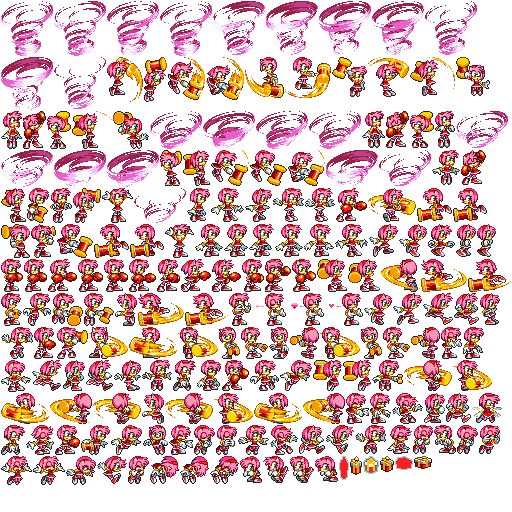
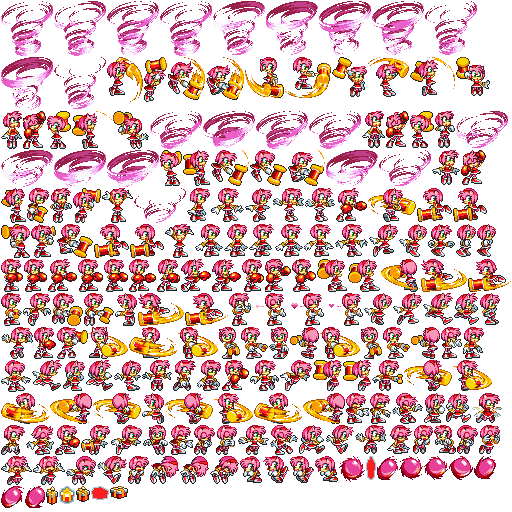
Adventure 2: Sonic's Spin Dash for everyone but Rouge, in their colours
Only Sonic's sheet has a Spin Dash, so the packer lends his (Sonic Wave's
spin in place, Sonic Meteor's ball) to Tails, Knuckles, Amy and Shadow,
swapping his four blues for their own main colour from each sheet's palette
strip. Amy gains the move; the others rev and roll as their coloured ball.
Rouge has none: Down + Space does nothing for her (a plank still drops).

Changed region(s): [[0.6562, 0.875, 0.9688, 0.9375], [0.0, 0.9375, 0.25, 1.0]]

diff --git a/race/adventure-sprites.js b/race/adventure-sprites.js
@@ -36,37 +36,39 @@
       "fx.airshot": [[53,64,50,50,25.0],[350,64,47,47,23.5],[104,64,49,49,24.5],[1,64,51,51,25.5],[154,64,47,49,23.5],[1,116,46,46,23.0],[398,64,47,47,23.5],[258,64,52,48,26.0],[311,64,38,48,19.0]],
       "fx.ring": [[452,440,15,15,7.5],[468,440,14,15,7.0],[483,440,14,15,7.0],[1,469,14,15,7.0],[48,469,15,13,7.5]],
       "fx.trap": [[64,469,15,13,7.5],[80,469,16,13,8.0],[16,469,16,15,8.0],[33,469,14,15,7.0]],
+      "spin": [[59,440,26,26,12.9],[148,440,24,24,12.0],[173,440,24,24,12.1],[198,440,24,24,12.0]],
     } },
     tails: { url: "assets/guests/sb-tails.png", w: 512, h: 1024, f: {
       "idle": [[410,230,38,32,27.6],[435,330,38,31,27.5],[342,127,36,33,26.6],[1,127,38,34,26.1],[449,230,37,32,26.6],[474,330,37,31,26.5],[379,127,35,33,25.6],[40,127,39,34,27.1]],
       "dash": [[1,363,39,31,25.2],[1,264,42,32,22.6],[415,127,37,33,20.5],[41,363,34,31,19.5],[76,363,38,31,20.7]],
       "start": [[44,264,39,32,29.2]],
-      "run": [[84,264,40,32,29.8],[115,363,39,31,27.3],[125,264,38,32,29.9],[58,459,40,30,28.8],[164,264,41,32,29.1],[99,459,39,30,28.8],[206,264,38,32,29.9],[139,459,39,30,27.8]],
-      "skid": [[453,127,35,33,23.9],[155,363,43,31,11.4],[179,459,39,30,18.9],[245,264,37,32,26.8]],
-      "jump": [[94,1,17,45,8.7],[112,1,20,45,10.7],[356,1,24,40,15.9],[223,50,30,36,20.0],[219,459,34,30,23.6]],
+      "run": [[84,264,40,32,29.8],[115,363,39,31,27.3],[125,264,38,32,29.9],[1,459,40,30,28.8],[164,264,41,32,29.1],[42,459,39,30,28.8],[206,264,38,32,29.9],[82,459,39,30,27.8]],
+      "skid": [[453,127,35,33,23.9],[155,363,43,31,11.4],[122,459,39,30,18.9],[245,264,37,32,26.8]],
+      "jump": [[94,1,17,45,8.7],[112,1,20,45,10.7],[356,1,24,40,15.9],[223,50,30,36,20.0],[162,459,34,30,23.6]],
       "fall": [[1,162,36,33,22.7],[38,162,31,33,13.9],[79,50,28,38,11.2],[154,50,31,37,14.2]],
-      "land": [[283,264,31,32,12.3],[285,491,37,24,22.9],[191,491,34,28,24.0]],
-      "fly": [[199,363,41,31,26.4],[108,50,45,38,30.1],[65,90,40,35,21.0],[315,264,38,32,16.1],[70,162,39,33,22.2],[254,459,39,30,23.0]],
-      "roll": [[241,363,46,31,16.8],[288,363,40,31,11.0],[110,162,40,33,15.4]],
-      "atk1": [[329,363,35,31,24.6],[151,162,34,33,24.6],[365,363,46,31,24.8],[412,363,45,31,29.4],[458,363,38,31,29.0],[354,264,39,32,29.0]],
-      "atk2": [[1,395,35,31,20.6],[37,395,24,31,14.0],[294,459,37,30,18.6],[332,459,34,30,16.5],[62,395,36,31,14.1],[99,395,34,31,11.9],[134,395,29,31,14.5],[164,395,29,31,18.5]],
-      "atk3": [[367,459,33,30,11.0],[194,395,27,31,11.9],[401,459,27,30,13.2],[80,127,37,34,14.2],[394,264,39,32,17.4],[222,395,36,31,23.1],[259,395,38,31,29.0],[434,264,39,32,29.0]],
-      "heavy": [[186,162,43,33,29.9],[230,162,43,33,28.8],[274,162,43,33,26.8],[318,162,43,33,26.1],[362,162,43,33,26.9],[406,162,43,33,27.8],[1,297,43,32,25.2],[429,459,44,30,22.7],[1,491,48,30,22.4],[45,297,40,32,20.9],[118,127,46,34,20.4],[106,90,47,35,20.0],[154,90,46,35,20.3],[201,90,45,35,20.6]],
-      "upper": [[298,395,42,31,20.0],[86,297,44,32,17.7],[247,90,42,35,13.1],[254,50,46,36,22.8],[200,1,45,44,31.6],[1,1,47,48,35.1],[133,1,46,45,33.0],[49,1,44,47,33.3],[246,1,42,44,29.6],[301,50,44,36,23.4],[165,127,44,34,20.5],[450,162,46,33,26.4]],
-      "dashatk": [[1,196,40,33,29.7],[131,297,38,32,27.8],[50,491,35,30,14.5],[241,363,46,31,16.8],[288,363,40,31,11.0],[110,162,40,33,15.4],[341,395,38,31,28.6],[170,297,39,32,24.2],[42,196,36,33,18.1],[210,127,31,34,14.4]],
-      "airatk": [[79,196,40,33,29.7],[210,297,38,32,27.8],[86,491,35,30,14.5],[380,395,46,31,16.8],[427,395,40,31,11.0],[1,427,46,31,31.5],[48,427,40,31,29.1],[89,427,46,31,16.8],[136,427,40,31,11.0],[120,196,40,33,15.4],[177,427,38,31,28.6],[249,297,39,32,24.2],[161,196,36,33,18.1],[242,127,31,34,14.4]],
+      "land": [[283,264,31,32,12.3],[227,490,37,24,22.9],[106,490,34,28,24.0]],
+      "fly": [[199,363,41,31,26.4],[108,50,45,38,30.1],[65,90,40,35,21.0],[315,264,38,32,16.1],[70,162,39,33,22.2],[197,459,39,30,23.0]],
+      "atk1": [[241,363,35,31,24.6],[110,162,34,33,24.6],[277,363,46,31,24.8],[324,363,45,31,29.4],[370,363,38,31,29.0],[354,264,39,32,29.0]],
+      "atk2": [[409,363,35,31,20.6],[445,363,24,31,14.0],[237,459,37,30,18.6],[275,459,34,30,16.5],[470,363,36,31,14.1],[1,395,34,31,11.9],[36,395,29,31,14.5],[66,395,29,31,18.5]],
+      "atk3": [[310,459,33,30,11.0],[96,395,27,31,11.9],[344,459,27,30,13.2],[80,127,37,34,14.2],[394,264,39,32,17.4],[124,395,36,31,23.1],[161,395,38,31,29.0],[434,264,39,32,29.0]],
+      "heavy": [[145,162,43,33,29.9],[189,162,43,33,28.8],[233,162,43,33,26.8],[277,162,43,33,26.1],[321,162,43,33,26.9],[365,162,43,33,27.8],[1,297,43,32,25.2],[372,459,44,30,22.7],[417,459,48,30,22.4],[45,297,40,32,20.9],[118,127,46,34,20.4],[106,90,47,35,20.0],[154,90,46,35,20.3],[201,90,45,35,20.6]],
+      "upper": [[200,395,42,31,20.0],[86,297,44,32,17.7],[247,90,42,35,13.1],[254,50,46,36,22.8],[200,1,45,44,31.6],[1,1,47,48,35.1],[133,1,46,45,33.0],[49,1,44,47,33.3],[246,1,42,44,29.6],[301,50,44,36,23.4],[165,127,44,34,20.5],[409,162,46,33,26.4]],
+      "dashatk": [[456,162,40,33,29.7],[131,297,38,32,27.8],[466,459,35,30,14.5],[243,395,46,31,16.8],[290,395,40,31,11.0],[1,196,40,33,15.4],[331,395,38,31,28.6],[170,297,39,32,24.2],[42,196,36,33,18.1],[210,127,31,34,14.4]],
+      "airatk": [[79,196,40,33,29.7],[210,297,38,32,27.8],[1,490,35,30,14.5],[370,395,46,31,16.8],[417,395,40,31,11.0],[458,395,46,31,31.5],[1,427,40,31,29.1],[42,427,46,31,16.8],[89,427,40,31,11.0],[120,196,40,33,15.4],[130,427,38,31,28.6],[249,297,39,32,24.2],[161,196,36,33,18.1],[242,127,31,34,14.4]],
       "seek": [[180,1,19,45,9.0],[289,1,27,42,15.4],[346,50,34,36,22.8],[1,50,36,39,24.8],[290,90,37,35,26.4],[198,196,37,33,25.6],[186,50,36,37,25.6]],
       "aim": [[381,1,32,40,21.3],[236,196,39,33,24.8],[289,297,37,32,18.8],[414,1,32,40,16.6],[447,1,29,40,14.5],[317,1,38,41,25.4],[327,297,38,32,28.6],[276,196,36,33,22.7]],
-      "shot": [[216,427,40,31,29.0],[257,427,40,31,28.0],[298,427,40,31,25.8],[38,50,40,39,24.2],[381,50,40,36,24.9],[328,90,40,35,25.6],[313,196,41,33,31.1],[366,297,48,32,27.8],[355,196,48,33,27.7],[404,196,47,33,26.6],[452,196,45,33,21.1],[1,230,45,33,23.2],[47,230,47,33,26.4],[95,230,48,33,27.7],[144,230,48,33,27.7],[193,230,48,33,27.7],[242,230,43,33,29.9],[286,230,42,33,28.3],[329,230,42,33,27.7],[415,297,36,32,26.4],[452,297,37,32,27.0]],
-      "power": [[339,427,39,31,29.4],[1,330,36,32,24.0],[422,50,29,36,9.3],[369,90,35,35,9.8],[379,427,36,31,16.5],[38,330,32,32,15.6],[71,330,35,32,18.7],[416,427,42,31,28.6]],
-      "airpower": [[107,330,39,32,30.4],[147,330,36,32,24.0],[452,50,29,36,9.3],[405,90,35,35,9.8],[459,427,36,31,17.2],[274,127,31,34,15.6],[306,127,35,34,20.1],[372,230,37,33,25.0]],
-      "trap": [[339,427,39,31,29.4],[1,330,36,32,24.0],[422,50,29,36,9.3],[369,90,35,35,9.8],[379,427,36,31,16.5],[38,330,32,32,15.6],[71,330,35,32,18.7],[416,427,42,31,28.6]],
-      "airtrap": [[107,330,39,32,30.4],[147,330,36,32,24.0],[452,50,29,36,9.3],[405,90,35,35,9.8],[459,427,36,31,17.2],[274,127,31,34,15.6],[306,127,35,34,20.1],[372,230,37,33,25.0]],
-      "hit": [[122,491,41,30,20.5],[184,330,42,32,22.2],[227,330,36,32,23.4]],
+      "shot": [[169,427,40,31,29.0],[210,427,40,31,28.0],[251,427,40,31,25.8],[38,50,40,39,24.2],[381,50,40,36,24.9],[328,90,40,35,25.6],[313,196,41,33,31.1],[366,297,48,32,27.8],[355,196,48,33,27.7],[404,196,47,33,26.6],[452,196,45,33,21.1],[1,230,45,33,23.2],[47,230,47,33,26.4],[95,230,48,33,27.7],[144,230,48,33,27.7],[193,230,48,33,27.7],[242,230,43,33,29.9],[286,230,42,33,28.3],[329,230,42,33,27.7],[415,297,36,32,26.4],[452,297,37,32,27.0]],
+      "power": [[292,427,39,31,29.4],[1,330,36,32,24.0],[422,50,29,36,9.3],[369,90,35,35,9.8],[332,427,36,31,16.5],[38,330,32,32,15.6],[71,330,35,32,18.7],[369,427,42,31,28.6]],
+      "airpower": [[107,330,39,32,30.4],[147,330,36,32,24.0],[452,50,29,36,9.3],[405,90,35,35,9.8],[412,427,36,31,17.2],[274,127,31,34,15.6],[306,127,35,34,20.1],[372,230,37,33,25.0]],
+      "trap": [[292,427,39,31,29.4],[1,330,36,32,24.0],[422,50,29,36,9.3],[369,90,35,35,9.8],[332,427,36,31,16.5],[38,330,32,32,15.6],[71,330,35,32,18.7],[369,427,42,31,28.6]],
+      "airtrap": [[107,330,39,32,30.4],[147,330,36,32,24.0],[452,50,29,36,9.3],[405,90,35,35,9.8],[412,427,36,31,17.2],[274,127,31,34,15.6],[306,127,35,34,20.1],[372,230,37,33,25.0]],
+      "hit": [[37,490,41,30,20.5],[184,330,42,32,22.2],[227,330,36,32,23.4]],
       "out": [[1,90,30,36,16.5],[32,90,32,36,18.4],[441,90,33,35,19.8],[264,330,38,32,28.5],[303,330,36,32,26.3]],
-      "fx.shot": [[323,491,24,24,12.0],[51,522,22,22,11.0],[348,491,24,24,12.0],[74,522,22,22,11.0],[373,491,24,24,12.0],[97,522,22,22,11.0],[398,491,24,24,12.0],[120,522,22,22,11.0],[423,491,24,24,12.0],[143,522,22,22,11.0],[448,491,24,24,12.0],[473,491,24,24,12.0],[1,522,24,24,12.0],[26,522,24,24,12.0]],
-      "fx.power": [[166,522,14,18,7.0],[340,330,24,32,12.0],[226,491,26,27,13.0],[164,491,26,29,13.0],[365,330,29,32,14.5],[1,459,29,31,14.5],[31,459,26,31,13.0],[395,330,24,32,12.0],[253,491,31,25,15.5],[420,330,14,32,7.0]],
-      "fx.trap": [[181,522,15,15,7.5],[227,522,13,13,6.5],[197,522,14,14,7.0],[241,522,13,13,6.5],[255,522,13,13,6.5],[212,522,14,14,7.0],[269,522,13,13,6.5]],
+      "fx.shot": [[265,490,24,24,12.0],[99,521,22,22,11.0],[290,490,24,24,12.0],[122,521,22,22,11.0],[315,490,24,24,12.0],[145,521,22,22,11.0],[340,490,24,24,12.0],[168,521,22,22,11.0],[365,490,24,24,12.0],[191,521,22,22,11.0],[390,490,24,24,12.0],[415,490,24,24,12.0],[440,490,24,24,12.0],[465,490,24,24,12.0]],
+      "fx.power": [[259,521,14,18,7.0],[340,330,24,32,12.0],[141,490,26,27,13.0],[79,490,26,29,13.0],[365,330,29,32,14.5],[449,427,29,31,14.5],[479,427,26,31,13.0],[395,330,24,32,12.0],[195,490,31,25,15.5],[420,330,14,32,7.0]],
+      "fx.trap": [[274,521,15,15,7.5],[320,521,13,13,6.5],[290,521,14,14,7.0],[334,521,13,13,6.5],[348,521,13,13,6.5],[305,521,14,14,7.0],[362,521,13,13,6.5]],
+      "rev": [[214,521,23,22,13.3],[490,490,21,24,12.5],[76,521,22,23,12.6],[238,521,20,22,11.8]],
+      "spin": [[168,490,26,26,12.9],[1,521,24,24,12.0],[26,521,24,24,12.1],[51,521,24,24,12.0]],
     } },
     knuckles: { url: "assets/guests/sb-knuckles.png", w: 512, h: 1024, f: {
       "idle": [[289,214,25,34,10.3],[1,178,26,35,10.2],[28,178,29,35,10.9],[370,285,31,33,11.8],[315,214,30,34,12.4],[58,178,27,35,11.8],[86,178,26,35,11.9],[402,285,25,33,12.2]],
@@ -77,9 +79,9 @@
       "jump": [[121,100,26,38,13.3],[148,100,27,38,13.7],[374,214,29,34,14.4],[94,320,30,33,12.8],[258,388,29,32,11.5]],
       "fall": [[113,178,30,35,13.6],[144,178,36,35,18.7],[181,178,37,35,19.7],[59,140,35,36,17.9]],
       "land": [[212,455,35,31,18.0],[165,488,34,30,18.2],[248,455,30,31,15.6]],
-      "glide": [[288,388,30,32,12.2],[128,520,34,28,16.0],[1,550,42,22,24.6],[44,550,42,22,23.9],[446,520,37,23,19.5],[163,520,33,28,15.7]],
+      "glide": [[288,388,30,32,12.2],[128,520,34,28,16.0],[162,550,42,22,24.6],[205,550,42,22,23.9],[76,550,37,23,19.5],[163,520,33,28,15.7]],
       "cling": [[33,520,31,29,15.8]],
-      "ball": [[347,520,24,24,12.0],[372,520,24,24,12.1],[397,520,24,24,12.0],[228,520,26,26,12.9]],
+      "ball": [[374,520,24,24,12.0],[399,520,24,24,12.1],[424,520,24,24,12.0],[228,520,26,26,12.9]],
       "atk1": [[404,214,24,34,11.3],[429,214,27,34,14.2],[219,178,41,35,16.3],[95,140,38,36,14.1],[125,320,34,33,14.7],[457,214,27,34,12.5]],
       "atk2": [[459,57,35,39,12.7],[176,100,30,38,19.2],[1,100,40,39,19.8],[296,100,40,37,16.1],[160,320,30,33,14.7],[191,320,32,33,17.8],[1,250,31,34,15.3]],
       "atk3": [[279,455,33,31,16.7],[313,455,38,31,21.1],[224,320,32,33,19.4],[96,57,43,41,26.2],[366,1,42,43,23.6],[409,1,28,42,20.5],[140,57,30,41,20.7],[33,250,30,34,12.5],[64,250,25,34,11.5]],
@@ -92,14 +94,16 @@
       "shot": [[84,214,29,35,11.7],[352,455,24,31,12.1],[226,488,30,30,14.0],[257,488,31,30,13.2],[223,422,31,32,12.0],[337,100,28,37,15.3],[250,57,26,41,11.9],[68,100,26,39,11.7],[95,100,25,39,11.2],[238,100,26,38,15.0],[289,488,35,30,15.9],[377,455,34,31,17.0],[255,422,32,32,15.8],[68,354,28,33,13.4]],
       "airshot": [[97,354,28,33,13.2],[288,422,29,32,14.9],[469,250,27,34,11.7],[286,140,32,36,12.6],[319,140,31,36,12.5],[114,214,31,35,13.5],[126,354,31,33,13.2]],
       "power": [[158,354,32,33,13.8],[318,422,30,32,16.8],[412,455,31,31,17.5],[349,422,30,32,15.1],[351,140,29,36,12.9],[381,140,33,36,15.3],[146,214,27,35,14.2],[191,354,42,33,15.3],[234,354,41,33,16.9],[276,354,40,33,17.0],[1,285,35,34,15.3],[37,285,27,34,12.5],[317,354,23,33,11.2],[380,422,25,32,13.4],[444,455,27,31,14.9],[65,285,25,34,13.5],[366,100,26,37,12.0],[393,100,28,37,11.2],[174,214,34,35,14.8],[64,57,31,42,15.9],[277,57,30,41,16.7],[395,57,30,40,16.7],[91,285,27,34,14.0],[341,354,28,33,12.1],[119,285,26,34,13.0],[415,140,27,36,12.1],[209,214,28,35,12.5],[238,214,23,35,11.7],[422,100,34,37,17.4],[457,100,36,37,17.3],[370,354,32,33,15.3],[443,140,30,36,13.7],[403,354,29,33,11.9],[406,422,29,32,10.9],[436,422,31,32,15.4],[433,354,28,33,11.8]],
-      "airpower": [[347,520,24,24,12.0],[372,520,24,24,12.1],[397,520,24,24,12.0],[228,520,26,26,12.9],[87,550,24,21,11.9],[112,550,24,21,12.0],[158,550,24,19,12.4],[183,550,26,19,13.2],[270,550,45,15,10.5],[316,550,22,15,11.1],[484,520,24,23,11.6],[146,285,30,34,13.3],[283,1,25,46,16.7],[309,1,26,46,17.1],[336,1,29,44,16.0],[1,140,26,37,12.5],[177,285,27,34,12.9]],
+      "airpower": [[374,520,24,24,12.0],[399,520,24,24,12.1],[424,520,24,24,12.0],[228,520,26,26,12.9],[293,550,24,21,11.9],[318,550,24,21,12.0],[364,550,24,19,12.4],[389,550,26,19,13.2],[1,575,45,15,10.5],[47,575,22,15,11.1],[114,550,24,23,11.6],[146,285,30,34,13.3],[283,1,25,46,16.7],[309,1,26,46,17.1],[336,1,29,44,16.0],[1,140,26,37,12.5],[177,285,27,34,12.9]],
       "trap": [[262,214,26,35,13.1],[308,57,29,41,11.6],[338,57,30,41,10.3],[462,354,31,33,16.3],[93,520,34,29,18.4],[325,488,31,30,16.7],[472,455,32,31,17.9],[1,388,30,33,18.5],[205,285,29,34,12.4]],
       "airtrap": [[357,488,28,30,13.8],[1,488,32,31,12.1],[235,285,39,34,24.5],[265,100,30,38,16.4],[426,57,32,40,18.5],[474,140,34,36,17.2],[32,388,37,33,20.6]],
       "hit": [[275,285,32,34,13.2],[70,388,31,33,13.9],[308,285,30,34,12.6]],
       "out": [[28,140,30,37,15.7],[339,285,30,34,15.8],[102,388,31,33,19.1],[468,422,26,32,14.8]],
       "fx.shot": [[1,1,47,55,23.5],[145,1,45,53,22.5],[237,1,45,47,22.5],[191,1,45,53,22.5],[49,1,47,55,23.5],[97,1,47,55,23.5]],
-      "fx.power": [[137,550,20,20,10.0],[386,488,30,30,15.0],[422,520,23,24,11.5],[255,520,26,26,13.0],[197,520,30,28,15.0],[417,488,32,30,16.0],[1,455,32,32,16.0],[34,455,32,32,16.0],[450,488,32,30,16.0],[282,520,32,26,16.0],[315,520,31,25,15.5]],
-      "fx.trap": [[210,550,14,16,7.0],[225,550,14,16,7.0],[240,550,14,16,7.0],[255,550,14,16,7.0]],
+      "fx.power": [[343,550,20,20,10.0],[386,488,30,30,15.0],[449,520,23,24,11.5],[255,520,26,26,13.0],[197,520,30,28,15.0],[417,488,32,30,16.0],[1,455,32,32,16.0],[34,455,32,32,16.0],[450,488,32,30,16.0],[282,520,32,26,16.0],[342,520,31,25,15.5]],
+      "fx.trap": [[416,550,14,16,7.0],[431,550,14,16,7.0],[446,550,14,16,7.0],[461,550,14,16,7.0]],
+      "rev": [[248,550,23,22,13.3],[473,520,21,24,12.5],[139,550,22,23,12.6],[272,550,20,22,11.8]],
+      "spin": [[315,520,26,26,12.9],[1,550,24,24,12.0],[26,550,24,24,12.1],[51,550,24,24,12.0]],
     } },
     amy: { url: "assets/guests/sb-amy.png", w: 512, h: 512, f: {
       "idle": [[195,224,28,33,15.5],[224,224,24,33,13.4],[187,188,23,34,12.8],[249,224,25,33,14.0],[275,224,28,33,15.9],[304,224,30,33,16.0],[211,188,33,34,17.0],[335,224,33,33,16.8]],
@@ -128,7 +132,9 @@
       "out": [[150,456,29,28,18.1],[180,456,29,28,19.1],[210,456,29,28,18.3],[66,456,30,29,19.6]],
       "fx.shot": [[1,1,52,55,26.0],[54,1,52,55,26.0],[213,1,52,54,26.0],[266,1,52,54,26.0],[1,57,52,53,26.0],[319,1,52,54,26.0],[372,1,52,54,26.0],[107,1,52,55,26.0],[160,1,52,55,26.0],[425,1,52,54,26.0],[54,57,52,52,26.0]],
       "fx.airshot": [[150,111,52,38,26.0],[456,111,52,37,26.0],[1,150,52,37,26.0],[326,150,52,36,26.0],[54,150,52,37,26.0],[107,150,52,37,26.0],[203,111,52,38,26.0],[256,111,52,38,26.0],[309,111,52,38,26.0],[379,150,52,36,26.0],[134,188,52,35,26.0]],
-      "fx.trap": [[339,456,10,24,5.0],[395,456,18,14,9.0],[363,456,16,18,8.0],[350,456,12,19,6.0],[414,456,18,13,9.0],[380,456,14,16,7.0]],
+      "fx.trap": [[366,456,10,24,5.0],[91,486,18,14,9.0],[59,486,16,18,8.0],[46,486,12,19,6.0],[110,486,18,13,9.0],[76,486,14,16,7.0]],
+      "rev": [[1,486,23,22,13.3],[377,456,21,24,12.5],[474,456,22,23,12.6],[25,486,20,22,11.8]],
+      "spin": [[339,456,26,26,12.9],[399,456,24,24,12.0],[424,456,24,24,12.1],[449,456,24,24,12.0]],
     } },
     rouge: { url: "assets/guests/sb-rouge.png", w: 512, h: 512, f: {
       "idle": [[62,173,24,37,12.7],[105,94,25,38,12.6],[131,94,26,38,12.5],[363,1,27,39,13.7],[391,1,28,39,14.8],[420,1,29,39,16.9]],
@@ -193,6 +199,8 @@
       "fx.shot": [[316,656,30,28,15.0],[1,489,42,34,21.0],[29,274,46,36,23.0],[178,110,48,42,24.0],[409,56,48,48,24.0],[458,56,48,48,24.0],[1,110,48,48,24.0],[50,110,48,48,24.0],[99,110,48,48,24.0]],
       "fx.power": [[30,159,52,39,26.0],[65,56,58,52,29.0],[181,1,60,53,30.0],[1,1,61,54,30.5],[232,56,58,50,29.0],[242,1,56,53,28.0],[63,1,58,54,29.0],[291,56,57,50,28.5],[174,56,57,51,28.5],[299,1,59,53,29.5],[349,56,59,49,29.5],[359,1,62,53,31.0],[422,1,62,53,31.0],[1,56,63,53,31.5],[122,1,58,54,29.0],[124,56,49,52,24.5]],
       "fx.trap": [[26,656,31,31,15.5],[58,656,31,31,15.5],[182,656,29,29,14.5],[212,656,29,29,14.5],[347,656,27,27,13.5],[375,656,27,27,13.5]],
+      "rev": [[121,688,23,22,13.3],[1,688,21,24,12.5],[98,688,22,23,12.6],[145,688,20,22,11.8]],
+      "spin": [[473,656,26,26,12.9],[23,688,24,24,12.0],[48,688,24,24,12.1],[73,688,24,24,12.0]],
     } },
   };
 })(window);

diff --git a/race/adventure.js b/race/adventure.js
@@ -22,7 +22,9 @@
  *               one special for the ground and one for the air before a match; here all
  *               three are always to hand.)
  *   a double tap of a direction: the dash, each runner's own. Down: crouch (the landing
- *   frames). Down + Space: a Spin Dash for the four who curl up, or a drop through a plank.
+ *   frames). Down + Space: a Spin Dash for everyone but Rouge (for her it does nothing), or
+ *   a drop through a plank.
+ *   Only Sonic's sheet has a Spin Dash; the others spin his, in their own colours.
  * The moving is their platformers': everyone sinks in deep water and needs air, as in the
  * classic games (Tails alone swims, by flying).
  *   Sonic     the fastest feet; curls into a ball when he jumps; Spin Dash (Sonic 2). In the
@@ -33,8 +35,8 @@
  *   Knuckles  the slowest and lowest jumper, the hardest hitter. Space again in the air,
  *             held, glides; a glide into a wall grabs it, and Up and Down climb (Sonic &
  *             Knuckles). Spin Dash, and he curls when he jumps.
- *   Amy       never curls; her Piko Piko Hammer is in her heavy, upper and air attacks, and
- *             Up + X swings her into a Hammer Jump (Sonic Advance). Double Jump.
+ *   Amy       her Piko Piko Hammer is in her heavy, upper and air attacks, and Up + X
+ *             swings her into a Hammer Jump (Sonic Advance). Double Jump. Spin Dash.
  *   Rouge     flies on her wings for a short while, then glides down slowly; Down lets go
  *             (Rouge Catch). Kicks, and Spiral Dive drills down through rock.
  *   Shadow    the fastest in Sonic Battle, skating on his Air Shoes; Chaos Control: Space in
@@ -85,10 +87,10 @@
       grades: { Speed: "C", Jump: "C", Air: "A", Power: "S" },
       text: "Hold Space in the air to glide; glide into a wall to grab it, then climb with Up and Down. Slow, and hits the hardest." },
     { id: "amy", name: "Amy", w: 0.54, h: 1.0, run: 13.6, accel: 20, airAccel: 13, jump: 12.1,
-      air: "double", from: "Amy Rose",
+      spinDash: true, air: "double", from: "Amy Rose",
       moves: "Piko Piko Hammer",
       grades: { Speed: "A", Jump: "B", Air: "B", Power: "A" },
-      text: "A Double Jump, and her Piko Piko Hammer: Up + X swings her into a Hammer Jump. The quickest fists of the six." },
+      text: "A Double Jump, a Spin Dash, and her Piko Piko Hammer: Up + X swings her into a Hammer Jump. The quickest fists of the six." },
     { id: "rouge", name: "Rouge", w: 0.56, h: 1.14, run: 12.9, accel: 18, airAccel: 15, jump: 12.4,
       air: "fly", flyTime: 3, glides: true, from: "Rouge the Bat",
       moves: "Flight · Spiral Dive",
@@ -1212,6 +1214,7 @@
       const onPlank = p.ground && p.onTile === null && !p.on && tile(Math.floor(p.x), Math.floor(p.y - 0.1)) === "-";
       if (input.D && onPlank) { p.drop = true; p.ground = false; p.y -= 0.12; p.state = "run"; }
       else if (input.D && p.ground && c.spinDash && p.state !== "roll") startCharge(p);
+      else if (input.D && p.ground && !c.spinDash) { /* no Spin Dash (Rouge): Down + Space does nothing */ }
       else if ((p.ground || p.coyote > 0) && p.state !== "fly" && p.state !== "glide") jump(p, mud);
       else airAction(p);
     }
@@ -1221,7 +1224,7 @@
       else if ((input.zp || input.xp) && free) startAttack(p, input.zp ? "light" : "heavy");
       else if (input.cp && free) startSpecial(p);
     }
-    // Down: crouch when still, curl into a roll when running (the four who curl)
+    // Down: crouch when still, curl into a roll when running (everyone with a Spin Dash)
     if (p.state === "run" && p.ground && input.D) {
       if (c.spinDash && Math.abs(p.vx) > 4) { p.state = "roll"; p.curl = true; SFX.roll(); }
       else if (Math.abs(p.vx) < 4) p.state = "crouch";
@@ -1867,7 +1870,6 @@
     p.landT = Math.max(0, p.landT - dt); p.dblT = Math.max(0, (p.dblT || 0) - dt);
     p.balT = Math.max(0, (p.balT || 0) - dt); p.catchT = Math.max(0, (p.catchT || 0) - dt);
     const count = nm => framesOf(id, nm).length;
-    const ball = id === "tails" ? "roll" : "ball";
     let name, fps = 10, loop = true, face = p.face, pick = null;
     if (p.dead) { name = "out"; fps = 8; loop = false; }
     else switch (p.state) {
@@ -1876,8 +1878,8 @@
       case "special": name = p.sp.body; pick = () => Math.floor(p.sp.t * p.sp.fps) % count(name); break;
       case "seek": name = "seek"; fps = 14; loop = false; break;
       case "homing": name = "ball"; fps = 30; break;
-      case "charge": name = id === "sonic" ? "rev" : ball; fps = 14 + p.rev * 22; break;
-      case "roll": name = ball; fps = 12 + sp * 1.4; break;
+      case "charge": name = "rev"; fps = 14 + p.rev * 22; break;              // Sonic's Spin Dash, in their colours
+      case "roll": name = "spin"; fps = 12 + sp * 1.4; break;
       case "dash": name = "dash"; fps = 16; loop = false; break;
       case "crouch": {                                     // the landing frames, down to the deepest, held
         const L = framesOf(id, "land"); let k = 0;

diff --git a/race/README.md b/race/README.md
@@ -1228,15 +1228,18 @@ three buttons, with all three specials always to hand:
 
 A double tap of a direction is the runner's own dash (Sonic Dash and Tails Hop are hops,
 Knuckles' cannot steer, Shadow's leaves him unseen). Down crouches (the landing frames, as
-the sheets have no crouch); Down + Space is a Spin Dash for the four who curl up (tap Space
-to rev, let go of Down), or drops through a plank.
+the sheets have no crouch); Down + Space is a Spin Dash for everyone but Rouge (tap Space
+to rev, let go of Down; for Rouge it does nothing), or drops through a plank. Only Sonic's sheet has one (Sonic Wave's
+spin in place, Sonic Meteor's ball), so the others spin his in their own colours: Sonic
+Battle's palettes line up, his four blues where they keep their own main colour, and the
+packer swaps them colour for colour (Knuckles' shoes go to his green, Tails' muzzle white).
 
 | | Moves in the platformers | Its Sonic Battle set |
 |---|---|---|
 | Sonic | the fastest; curls into a ball to jump; Spin Dash (Sonic 2); **Sonic Ballet**, Space again in the air: a second jump, or a Homing Attack (Sonic Adventure) at anything near | Sonic Punch, Sonic Kick, Top Kick; Sonic Flare, Sonic Updraft, Windmill, Sonic Rocket, Sonic Eagle; Sonic Wave (a shockwave along the ground) / Sonic Storm; Sonic Drive (throws a ring, spins after it) / Sonic Meteor; Sonic Cracker, a landmine |
 | Tails | **flies** (Sonic 2 & 3): Space again in the air, tapped to climb, until he tires after about five seconds; under water the same stroke swims; Spin Dash | IQ200, IQ300, IQ400; Magic Hook (the longest reach), Magic Upper, Tails Cyclone, Typhoon, Tails Dunk; Energy Ball; Flick, a Big Hand; Chu² Bomb, which crawls after its mark |
 | Knuckles | the slowest and lowest jumper; **glides** with Space held in the air, breaking cracked rock it meets; a glide into a wall grabs it, and Up and Down **climb**, over the top when it ends (Sonic & Knuckles); curls to jump; Spin Dash | Knuckles Straight, Chop, Upper; Megaton Hook, Enrage, Double Punch, Air Hook, Meteor Punch; Rock Free Fall, a lobbed rock / Meteor Crush; Deep Impact, an explosion / Major Eruption (dives, burrows, bursts out); Mole Bomb, a landmine you can barely see |
-| Amy | never curls; **Double Jump**; her Piko Piko Hammer: **Up + X** swings her into a **Hammer Jump** (Sonic Advance) | Girl Jab, Straight, Upper; Girl Crush, Girl Swing, Girl Bomber, Air Girl Crush, Girl Dunk; Pink Typhoon, a tornado along the ground; Girl Tornado; Gift |
+| Amy | **Double Jump**; her Piko Piko Hammer: **Up + X** swings her into a **Hammer Jump** (Sonic Advance); Spin Dash | Girl Jab, Straight, Upper; Girl Crush, Girl Swing, Girl Bomber, Air Girl Crush, Girl Dunk; Pink Typhoon, a tornado along the ground; Girl Tornado; Gift |
 | Rouge | **flies** a short while on her wings (Sonic Heroes), then glides down slowly as in Sonic Battle; Down lets go (Rouge Catch) | Rouge Kick, Side Kick, Sobat; Charlie Kick, Secret Kick, Secret Spear, Agent Eagle, Homing Cutter; Beauty Shock, short; Silent Size / **Spiral Dive**, which drills down through rock (Sonic Adventure 2's Drill Drive); Bat Cracker, a bat mine that hunts |
 | Shadow | the fastest in Sonic Battle, skating on his Air Shoes; **Chaos Control**: Space in the air teleports him a few metres on, twice a jump, drifting down; Homing Attack; curls to jump; Spin Dash | Shadow Chop, Kick, Back Kick; Chaos Nightmare, Chaos Upper, Shadow Slider, Shadow Rocket, Shadow Eagle; Chaos Magic, the Chaos Spear (held, it flies further); Chaos Burst / Air Chaos Burst (drops, then bursts); Roaming Chaos, which circles him |
 
